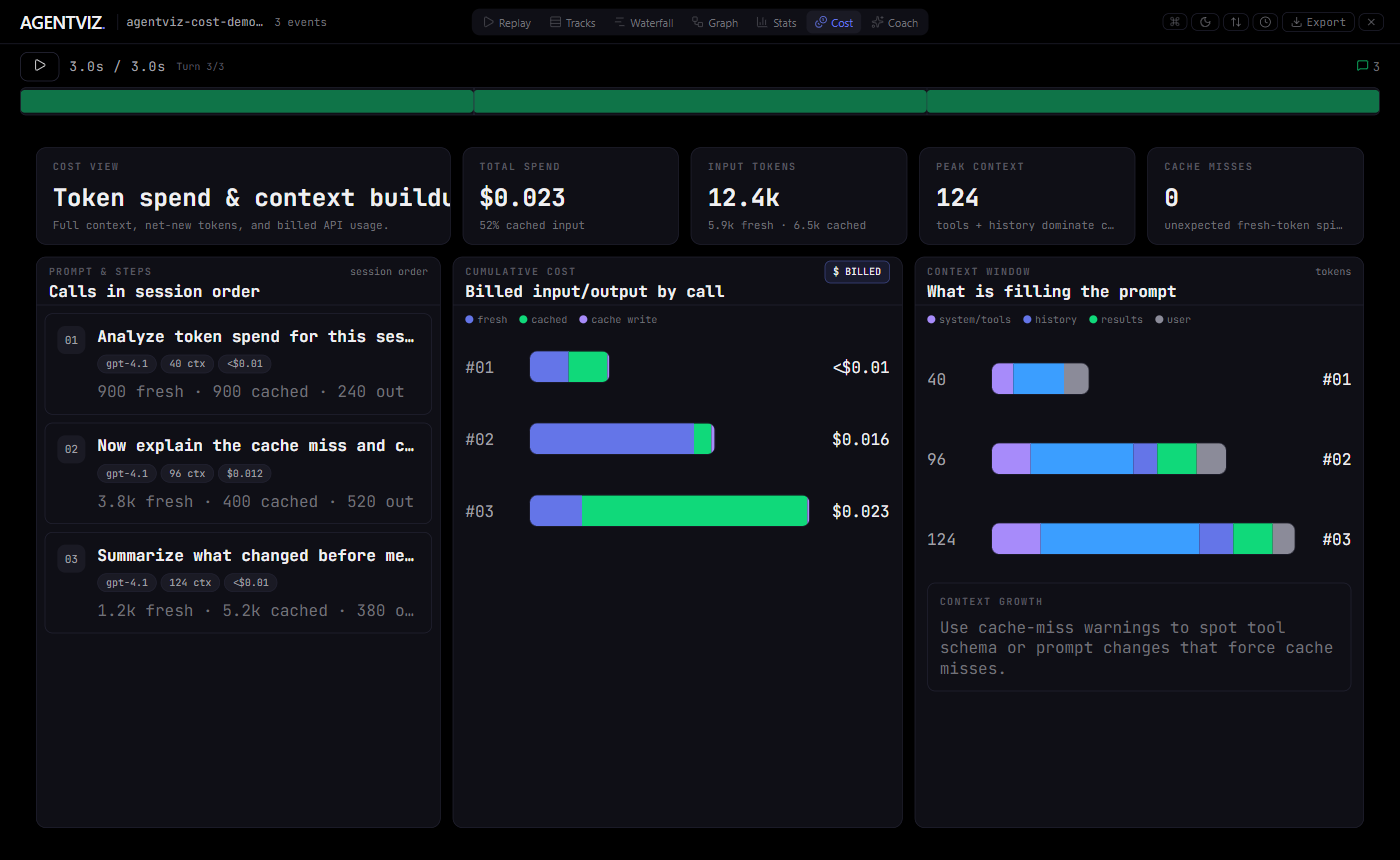
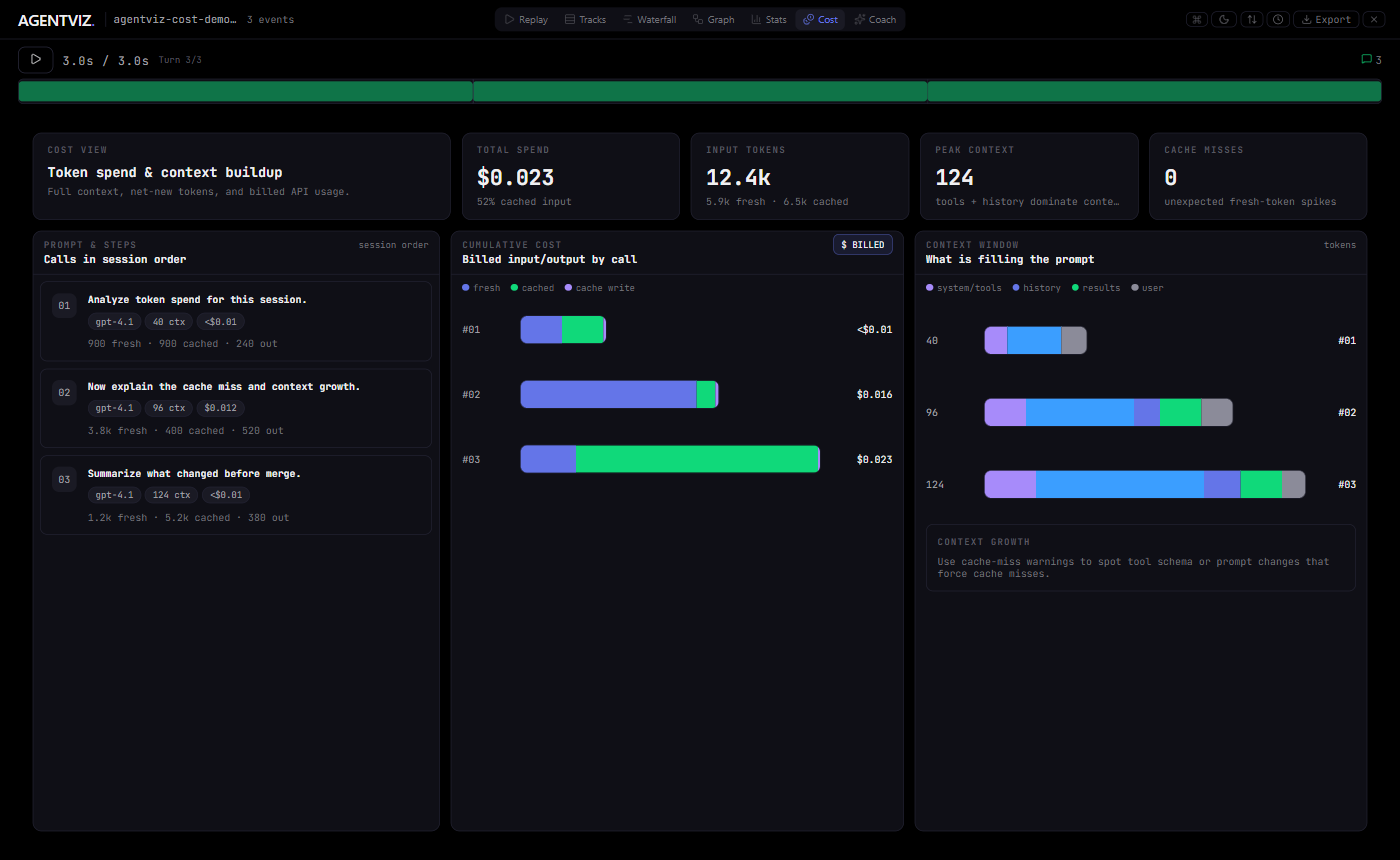
Fix Cost View typography

diff --git a/src/components/CostView.jsx b/src/components/CostView.jsx
@@ -26,11 +26,11 @@ function labelStyle() {
   };
 }
 
-function SummaryCard({ label, value, sub, color }) {
+function SummaryCard({ label, value, sub, color, valueSize }) {
   return (
     <div style={Object.assign({}, panelStyle(), { padding: theme.space.lg + "px " + theme.space.xl + "px" })}>
       <div style={labelStyle()}>{label}</div>
-      <div style={{ fontSize: theme.fontSize.xxl, color: color || theme.text.primary, fontWeight: 800, marginTop: theme.space.md, whiteSpace: "nowrap" }}>{value}</div>
+      <div style={{ fontSize: valueSize || theme.fontSize.xxl, color: color || theme.text.primary, fontWeight: 800, marginTop: theme.space.md, whiteSpace: "nowrap" }}>{value}</div>
       {sub && <div style={{ color: theme.text.muted, fontSize: theme.fontSize.sm, marginTop: theme.space.sm, overflow: "hidden", textOverflow: "ellipsis", whiteSpace: "nowrap" }}>{sub}</div>}
     </div>
   );
@@ -42,7 +42,7 @@ function Panel({ label, title, aside, children }) {
       <div style={{ height: 48, borderBottom: "1px solid " + theme.border.default, padding: theme.space.md + "px " + theme.space.lg + "px", display: "flex", justifyContent: "space-between", alignItems: "flex-start", gap: theme.space.lg, flexShrink: 0 }}>
         <div style={{ minWidth: 0 }}>
           <div style={labelStyle()}>{label}</div>
-          <div style={{ color: theme.text.primary, fontWeight: 800, marginTop: theme.space.xs, overflow: "hidden", textOverflow: "ellipsis", whiteSpace: "nowrap" }}>{title}</div>
+          <div style={{ color: theme.text.primary, fontSize: theme.fontSize.base, fontWeight: 800, marginTop: theme.space.xs, overflow: "hidden", textOverflow: "ellipsis", whiteSpace: "nowrap" }}>{title}</div>
         </div>
         {aside && <div style={{ color: theme.text.muted, fontSize: theme.fontSize.xs, flexShrink: 0 }}>{aside}</div>}
       </div>
@@ -93,14 +93,14 @@ function CallRow({ call, miss }) {
     }}>
       <div style={{ width: 28, height: 28, borderRadius: theme.radius.lg, background: theme.bg.raised, color: theme.text.secondary, display: "grid", placeItems: "center", fontFamily: theme.font.mono, fontSize: theme.fontSize.sm }}>{String(call.index + 1).padStart(2, "0")}</div>
       <div style={{ minWidth: 0 }}>
-        <div title={call.title} style={{ color: theme.text.primary, fontWeight: 800, overflow: "hidden", textOverflow: "ellipsis", whiteSpace: "nowrap" }}>{call.title}</div>
+        <div title={call.title} style={{ color: theme.text.primary, fontSize: theme.fontSize.sm, fontWeight: 800, overflow: "hidden", textOverflow: "ellipsis", whiteSpace: "nowrap" }}>{call.title}</div>
         <div style={{ display: "flex", gap: theme.space.sm, flexWrap: "wrap", marginTop: theme.space.md }}>
           <Chip>{call.model}</Chip>
           <Chip>{formatTokens(call.contextBreakdown.total || call.tokenUsage.inputTokens)} ctx</Chip>
           {miss && <Chip warning>cache miss</Chip>}
           <Chip>{formatCost(call.cost)}</Chip>
         </div>
-        <div style={{ color: theme.text.muted, marginTop: theme.space.md, overflow: "hidden", textOverflow: "ellipsis", whiteSpace: "nowrap" }}>
+        <div style={{ color: theme.text.muted, fontSize: theme.fontSize.sm, marginTop: theme.space.md, overflow: "hidden", textOverflow: "ellipsis", whiteSpace: "nowrap" }}>
           {formatTokens(call.freshInputTokens)} fresh · {formatTokens(call.cachedInputTokens)} cached · {formatTokens(call.outputTokens)} out
         </div>
       </div>
@@ -117,16 +117,16 @@ function CostBars({ calls, cacheMisses }) {
   var max = maxCallValue(calls, function (call) { return call.freshInputTokens + call.cachedInputTokens + call.cacheWriteTokens; });
   var missByIndex = new Map(cacheMisses.map(function (miss) { return [miss.callIndex, miss]; }));
   return (
-    <Panel label="Cumulative cost" title="Billed input/output by call" aside={<span style={{ color: theme.text.primary, border: "1px solid " + alpha(theme.accent.primary, 0.5), background: alpha(theme.accent.primary, 0.12), borderRadius: theme.radius.md, padding: theme.space.sm + "px " + theme.space.md + "px" }}>$ BILLED</span>}>
+    <Panel label="Cumulative cost" title="Billed input/output by call" aside={<span style={{ color: theme.text.primary, fontSize: theme.fontSize.xs, fontFamily: theme.font.mono, border: "1px solid " + alpha(theme.accent.primary, 0.5), background: alpha(theme.accent.primary, 0.12), borderRadius: theme.radius.md, padding: theme.space.sm + "px " + theme.space.md + "px" }}>$ BILLED</span>}>
       <Legend items={[{ label: "fresh", color: theme.accent.primary }, { label: "cached", color: theme.semantic.success }, { label: "cache write", color: theme.track.context }]} />
       <div style={{ padding: theme.space.lg, overflow: "auto" }}>
         {calls.map(function (call) {
           return (
             <div key={call.index} style={{ minHeight: 72 }}>
               <div style={{ display: "grid", gridTemplateColumns: "56px 1fr 72px", gap: theme.space.md, alignItems: "center", height: theme.space.giant }}>
-                <div style={{ color: theme.text.secondary, fontFamily: theme.font.mono }}>#{String(call.index + 1).padStart(2, "0")}</div>
+                <div style={{ color: theme.text.secondary, fontFamily: theme.font.mono, fontSize: theme.fontSize.sm }}>#{String(call.index + 1).padStart(2, "0")}</div>
                 <BarSegments max={max} segments={[{ key: "fresh", label: "Fresh input", value: call.freshInputTokens, color: theme.accent.primary }, { key: "cached", label: "Cached input", value: call.cachedInputTokens, color: theme.semantic.success }, { key: "write", label: "Cache write", value: call.cacheWriteTokens, color: theme.track.context }]} />
-                <div style={{ textAlign: "right", color: theme.text.primary, fontFamily: theme.font.mono }}>{formatCost(call.cumulativeCost)}</div>
+                <div style={{ textAlign: "right", color: theme.text.primary, fontFamily: theme.font.mono, fontSize: theme.fontSize.sm }}>{formatCost(call.cumulativeCost)}</div>
               </div>
               {missByIndex.has(call.index) && <CacheMissAnnotation miss={missByIndex.get(call.index)} />}
             </div>
@@ -148,7 +148,7 @@ function CacheMissAnnotation({ miss }) {
   var toolText = changes.length ? " Tool diff: " + changes.join("; ") + "." : "";
   var message = "Unexpected cache miss on call #" + (miss.callIndex + 1) + ". Fresh input jumped from " + fromTokens + " to " + toTokens + "." + toolText;
   return (
-    <div aria-label={message} style={{ border: "1px solid " + alpha(theme.semantic.warning, 0.45), background: alpha(theme.semantic.warning, 0.08), borderRadius: theme.radius.lg, padding: theme.space.md + "px " + theme.space.lg + "px", color: theme.semantic.warning, fontWeight: 700, lineHeight: 1.35 }}>
+    <div aria-label={message} style={{ border: "1px solid " + alpha(theme.semantic.warning, 0.45), background: alpha(theme.semantic.warning, 0.08), borderRadius: theme.radius.lg, padding: theme.space.md + "px " + theme.space.lg + "px", color: theme.semantic.warning, fontSize: theme.fontSize.sm, fontWeight: 700, lineHeight: 1.35 }}>
       <span>Unexpected cache miss on call #{miss.callIndex + 1}.</span>{" "}
       <span>Fresh input jumped from {fromTokens} to {toTokens}.</span>
       {toolText && <span>{toolText}</span>}
@@ -166,15 +166,15 @@ function ContextBars({ calls }) {
           var b = call.contextBreakdown;
           return (
             <div key={call.index} style={{ display: "grid", gridTemplateColumns: "56px 1fr 48px", gap: theme.space.md, alignItems: "center", minHeight: 80 }}>
-              <div style={{ color: theme.text.secondary, fontFamily: theme.font.mono }}>{formatTokens(b.total || call.tokenUsage.inputTokens)}</div>
+              <div style={{ color: theme.text.secondary, fontFamily: theme.font.mono, fontSize: theme.fontSize.sm }}>{formatTokens(b.total || call.tokenUsage.inputTokens)}</div>
               <BarSegments max={max} segments={[{ key: "system", label: "System", value: b.system, color: theme.track.context }, { key: "tools", label: "Tools", value: b.tools, color: theme.track.tool_call }, { key: "history", label: "History", value: b.history, color: theme.accent.primary }, { key: "results", label: "Tool results", value: b.toolResults, color: theme.semantic.success }, { key: "user", label: "User", value: b.user, color: theme.agent.user }]} />
-              <div style={{ textAlign: "right", color: theme.text.primary, fontFamily: theme.font.mono }}>#{String(call.index + 1).padStart(2, "0")}</div>
+              <div style={{ textAlign: "right", color: theme.text.primary, fontFamily: theme.font.mono, fontSize: theme.fontSize.sm }}>#{String(call.index + 1).padStart(2, "0")}</div>
             </div>
           );
         })}
         <div style={{ border: "1px solid " + theme.border.default, background: theme.bg.surface, borderRadius: theme.radius.lg, padding: theme.space.lg, marginTop: theme.space.sm }}>
           <div style={labelStyle()}>Context growth</div>
-          <div style={{ color: theme.text.muted, marginTop: theme.space.md }}>Use cache-miss warnings to spot tool schema or prompt changes that force cache misses.</div>
+          <div style={{ color: theme.text.muted, fontSize: theme.fontSize.sm, marginTop: theme.space.md }}>Use cache-miss warnings to spot tool schema or prompt changes that force cache misses.</div>
         </div>
       </div>
     </Panel>
@@ -201,9 +201,9 @@ export default function CostView({ events, metadata }) {
   var missByIndex = new Set(analysis.cacheMisses.map(function (miss) { return miss.callIndex; }));
 
   return (
-    <div style={{ padding: theme.space.xl, display: "flex", flexDirection: "column", gap: theme.space.lg, minHeight: 0, height: "100%", overflow: "hidden" }}>
+    <div style={{ padding: theme.space.xl, display: "flex", flexDirection: "column", gap: theme.space.lg, minHeight: 0, height: "100%", overflow: "hidden", fontFamily: theme.font.mono, fontSize: theme.fontSize.base }}>
       <div style={{ display: "grid", gridTemplateColumns: SUMMARY_GRID_5_COLUMNS, gap: theme.space.lg }}>
-        <SummaryCard label="Cost view" value="Token spend & context buildup" sub="Full context, net-new tokens, and billed API usage." />
+        <SummaryCard label="Cost view" value="Token spend & context buildup" valueSize={theme.fontSize.lg} sub="Full context, net-new tokens, and billed API usage." />
         <SummaryCard label="Total spend" value={formatCost(totals.cost)} sub={cachePercent + "% cached input"} />
         <SummaryCard label="Input tokens" value={formatTokens(totals.inputTokens)} sub={formatTokens(totals.freshInputTokens) + " fresh · " + formatTokens(totals.cacheRead) + " cached"} />
         <SummaryCard label="Peak context" value={formatTokens(totals.peakContext)} sub="tools + history dominate context" />
